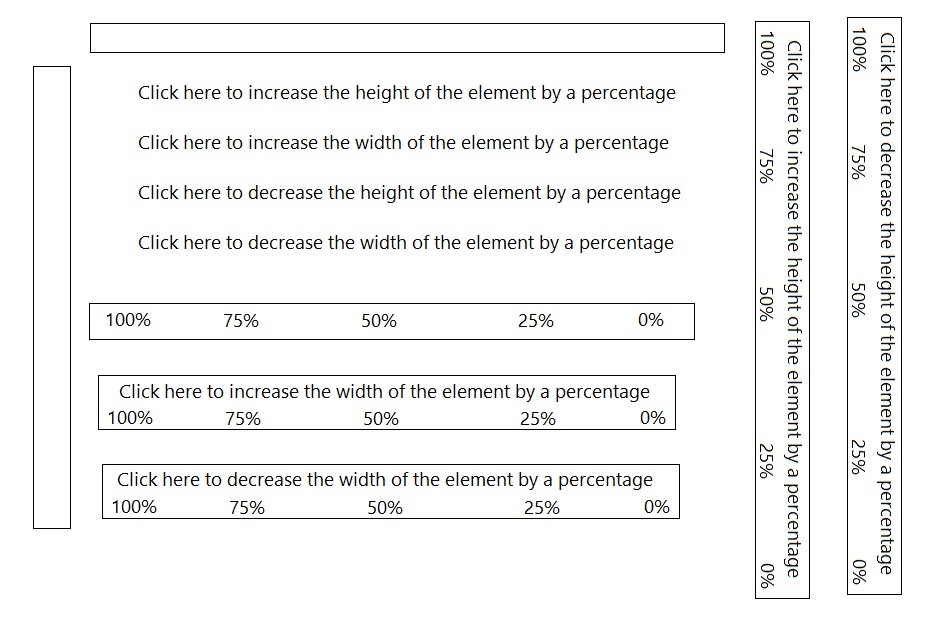
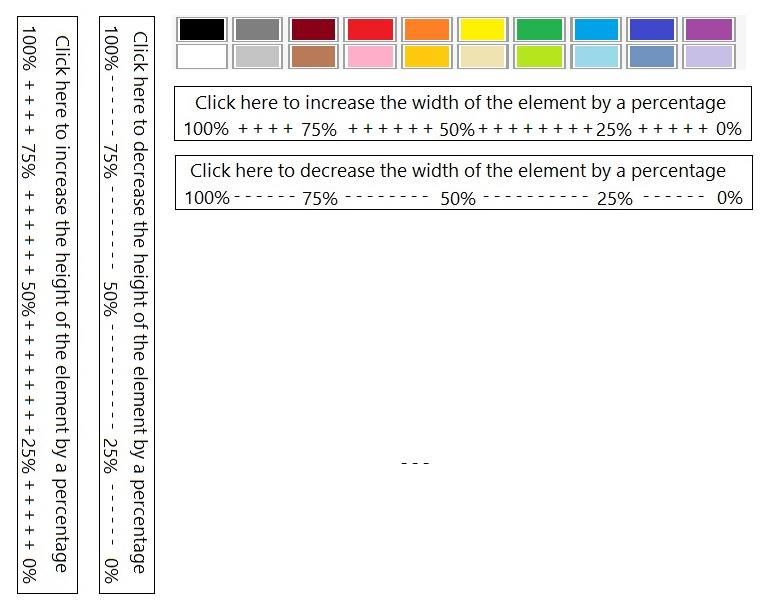
Excellent width & height adjustment work !!  (UI planning... not javascript work)

Changed region(s): [[0.0311, 0.0, 0.9637, 0.9624]]

diff --git a/ciBadgeForWeb/Controllers/LayoutText2Controller.cs b/ciBadgeForWeb/Controllers/LayoutText2Controller.cs
@@ -88,7 +88,7 @@ namespace ciBadgeForWeb.Controllers
                 //UpdateModel(mod_objLayout, formValues); // Automatically updates properties with values from the collection
 
                 //Added 7/5/2019 thomas downes 
-                ciLayoutPrintLib.LayoutExample.RefreshChoiceOfBackground_Next();
+                //ciLayoutPrintLib.LayoutExample.RefreshChoiceOfBackground_Next();
 
                 FormCollection formValues_T1 = mod_objLayout.FormValues_T1(formValues);
                 FormCollection formValues_T2 = mod_objLayout.FormValues_T2(formValues);

diff --git a/ciBadgeForWeb/Controllers/LayoutText4Controller.cs b/ciBadgeForWeb/Controllers/LayoutText4Controller.cs
@@ -86,7 +86,7 @@ namespace ciBadgeForWeb.Controllers
                 //UpdateModel(mod_objLayout, formValues); // Automatically updates properties with values from the collection
 
                 //Added 7/5/2019 thomas downes 
-                ciLayoutPrintLib.LayoutExample.RefreshChoiceOfBackground_Next();
+                //ciLayoutPrintLib.LayoutExample.RefreshChoiceOfBackground_Next();
 
                 FormCollection formValues_T1 = mod_objLayout.FormValues_T1(formValues);
                 FormCollection formValues_T2 = mod_objLayout.FormValues_T2(formValues);
